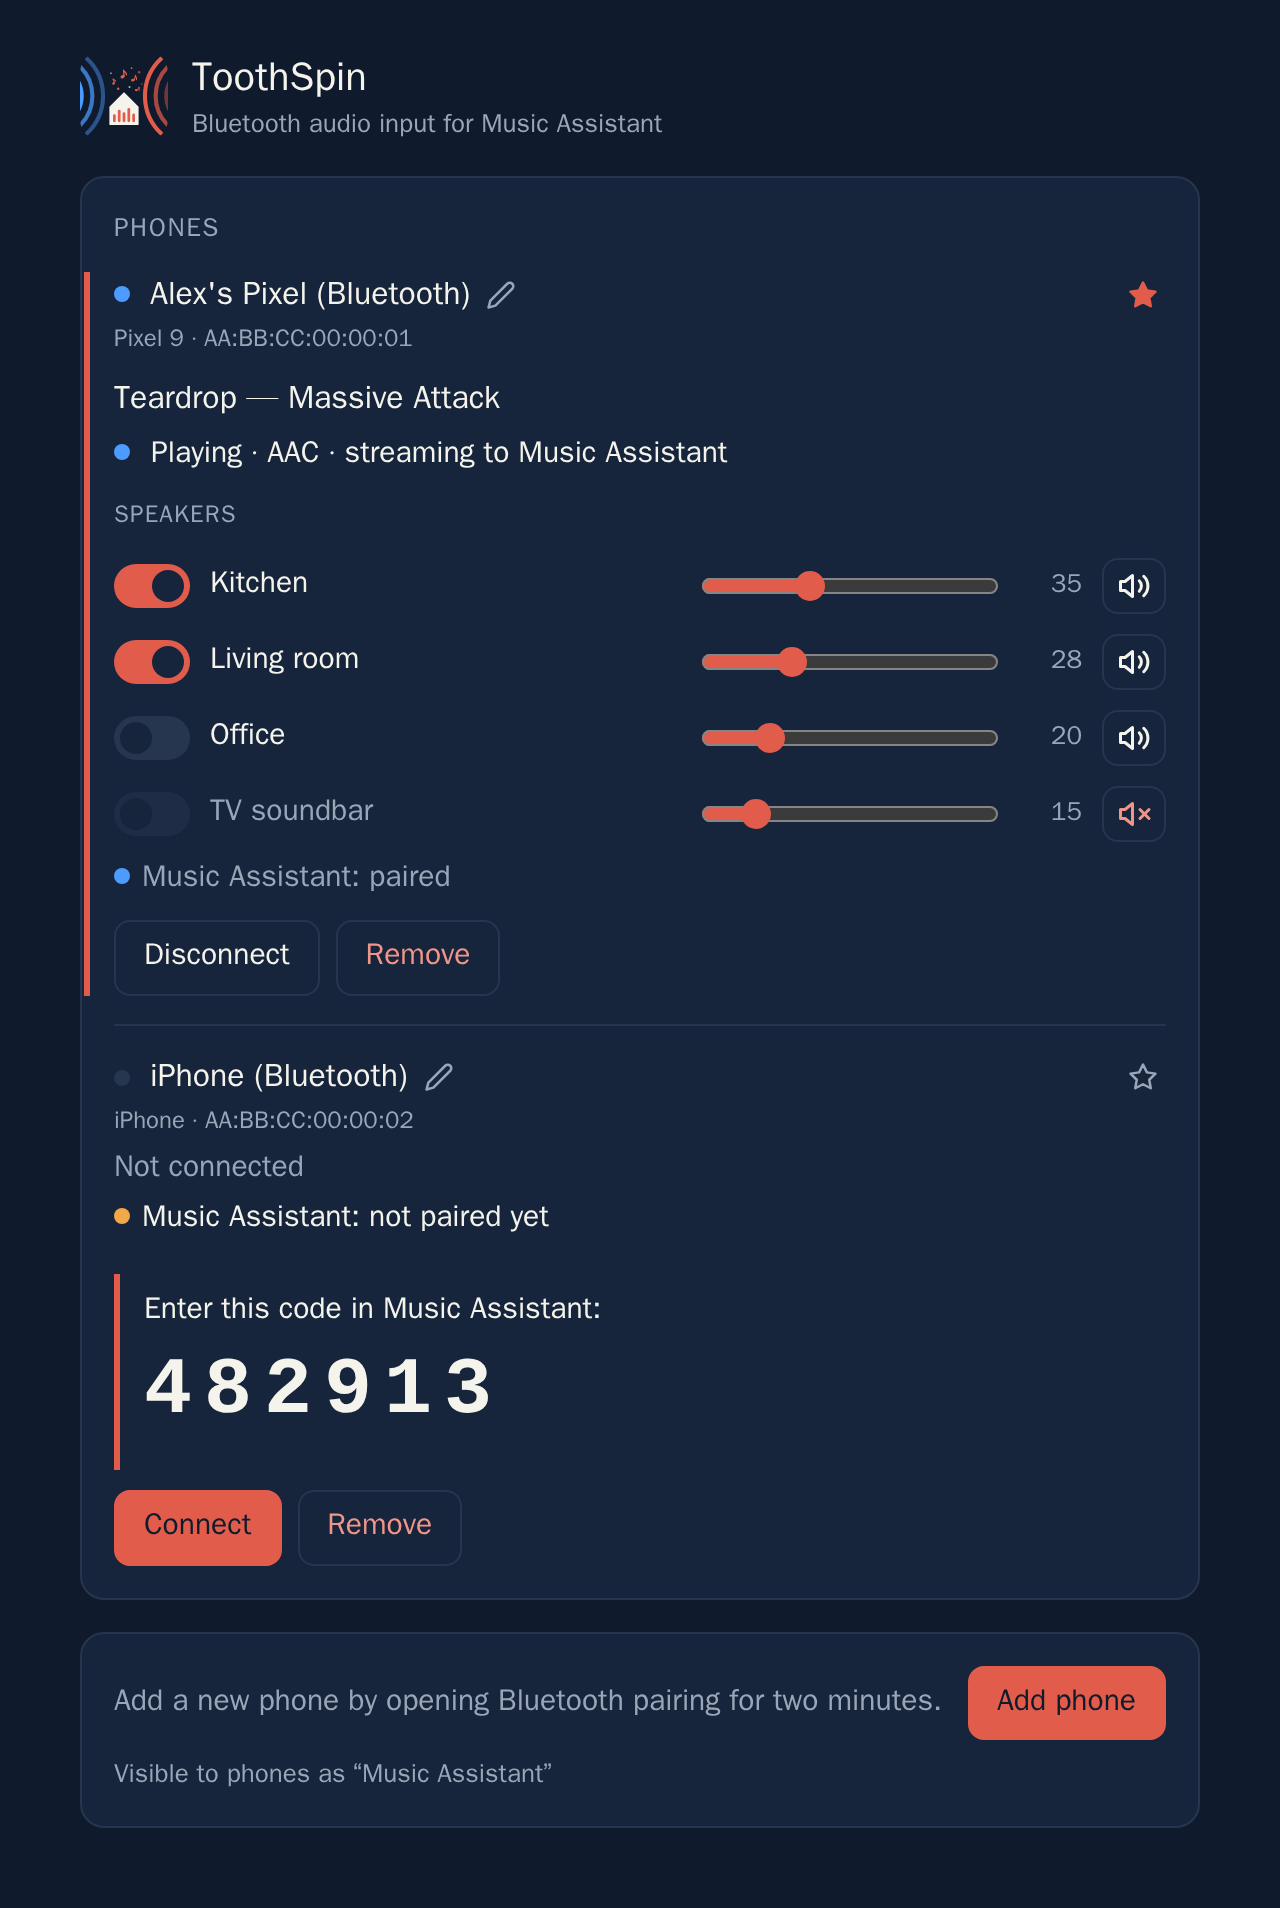
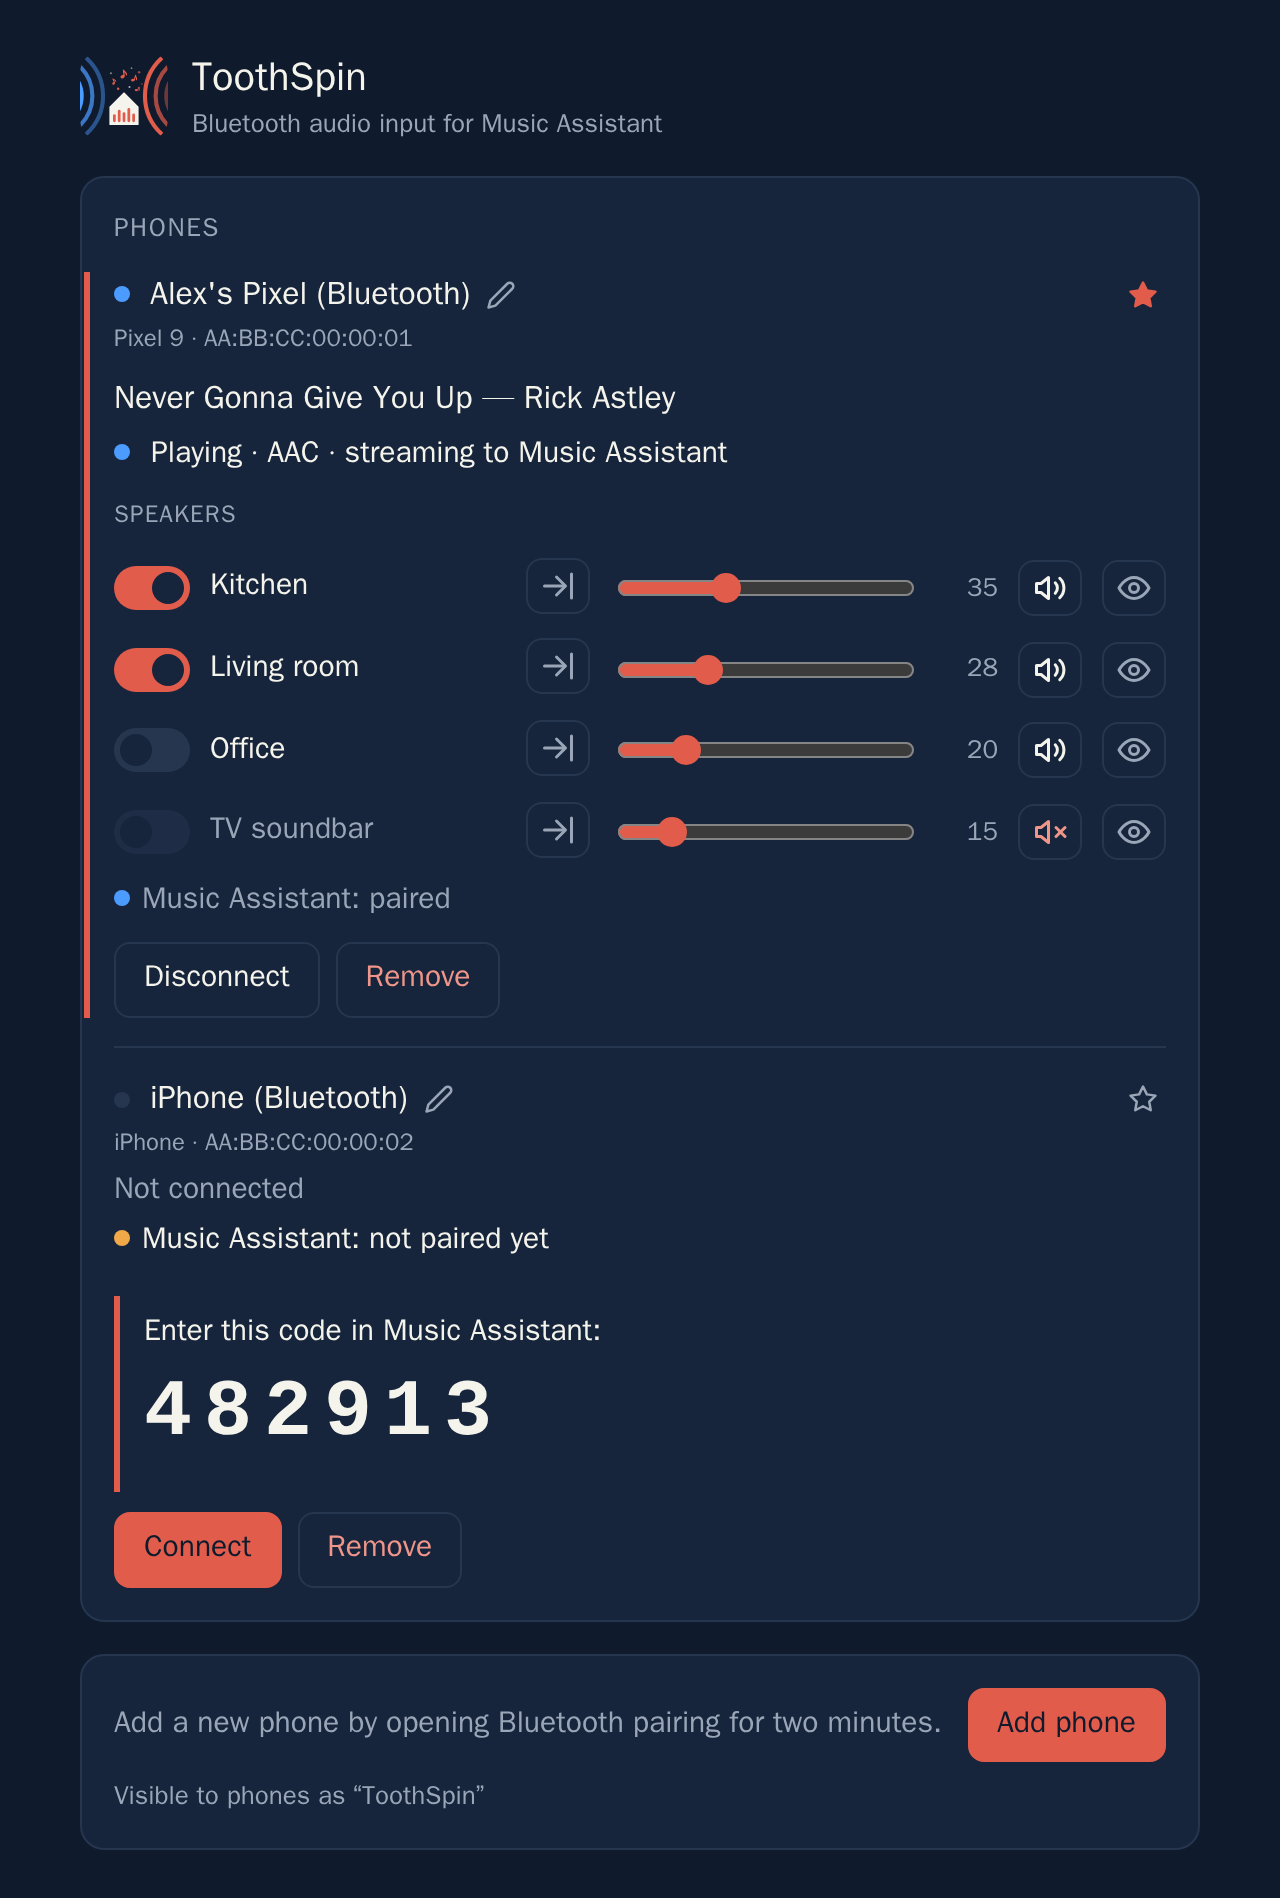
docs: screenshots of the setup card and a demo GIF
The screenshot script now runs a fake receiver that applies the web UI's
requests, so it can record the UI in use. Never gonna give you up.

diff --git a/docs/_screenshots/shot.py b/docs/_screenshots/shot.py
@@ -1,15 +1,23 @@
-"""Screenshots of the web UI for the Pages site, rendered with demo state.
+"""Screenshots and a demo GIF of the web UI, rendered with demo state.
 
-Serves src/toothspin/index.html and its static files with demo.json as
-/api/state, so no real devices or names end up on the site. From the repo
+Serves src/toothspin/index.html with a fake receiver behind /api: it starts
+from demo.json and applies the web UI's requests (speakers on/off, moves,
+volume, mute), so no real devices or names end up in the docs. From the repo
 root:
 
-    podman run --rm -v .:/repo:Z mcr.microsoft.com/playwright/python:v1.52.0-noble \
-        sh -c "pip install -q playwright==1.52.0 && python /repo/docs/_screenshots/shot.py"
+    podman run --rm -v .:/repo:Z mcr.microsoft.com/playwright/python:v1.52.0-noble \\
+        sh -c "apt-get -qq update && apt-get -qq install -y ffmpeg >/dev/null \\
+               && pip install -q playwright==1.52.0 && python /repo/docs/_screenshots/shot.py"
 """
 
+import copy
+import json
 import mimetypes
 import pathlib
+import shutil
+import subprocess
+import tempfile
+from urllib.parse import unquote
 
 from playwright.sync_api import sync_playwright
 
@@ -17,30 +25,185 @@ here = pathlib.Path(__file__).parent
 repo = here.parents[1]
 site = repo / "src" / "toothspin"
 out = repo / "docs" / "assets" / "screenshots"
-demo = (here / "demo.json").read_text()
+demo = json.loads((here / "demo.json").read_text())
+PHONE = "AA:BB:CC:00:00:01"
+
+TOKEN = {
+    "kind": "todo", "title": "Add a Music Assistant token",
+    "text": "To pick speakers here, pair phones with Music Assistant by themselves, "
+    "and control the speakers with the phone's volume buttons.",
+    "steps": [
+        "In Music Assistant, click your profile (bottom left) → **Tokens** → "
+        "**Create token**, and copy it.",
+        "Paste it as **Music Assistant token** in [ToothSpin's configuration](ha:app-config), "
+        "save and restart ToothSpin.",
+    ],
+}
+OFFERED = {
+    "kind": "todo", "title": "Let Home Assistant ignore ToothSpin's adapter",
+    "text": "Home Assistant found ToothSpin's adapter (00:1A:7D:DA:71:13) and offers to add "
+    "it to its Bluetooth integration. ToothSpin works best when Home Assistant leaves it alone.",
+    "steps": [
+        "Press **Ignore in Home Assistant**, or in [Settings → Devices & services]"
+        "(ha:integrations) choose **Ignore** on the discovered *Bluetooth* entry for "
+        "00:1A:7D:DA:71:13.",
+    ],
+    "action": "ignore-adapter",
+}
+BLOCKED = {
+    "title": "No Bluetooth adapter found",
+    "text": "ToothSpin needs a Bluetooth adapter, but this system has none, or "
+    "Bluetooth isn't running on it.",
+    "steps": [
+        "Plug a USB Bluetooth dongle into this machine (for a virtual machine: pass "
+        "the USB device through to it).",
+        "If it's plugged in, restart the machine so it's detected.",
+    ],
+}
 
 
-def handle(route):
-    path = route.request.url.split("toothspin.test", 1)[1].split("?")[0]
-    if path == "/api/state":
-        return route.fulfill(body=demo, content_type="application/json")
-    if path == "/":
-        return route.fulfill(path=site / "index.html", content_type="text/html")
-    if path.startswith("/static/"):
-        f = site / path.lstrip("/")
-        if f.is_file():
+class Receiver:
+    """Just enough of ToothSpin's API for the web UI to work."""
+
+    def __init__(self, setup=None):
+        self.state = copy.deepcopy(demo)
+        self.state["setup"] = setup or {"problem": None, "todo": [], "app": True, "app_slug": "demo_toothspin"}
+
+    def speakers(self):
+        return {s["player_id"]: s for s in self.state["speakers"]["list"]}
+
+    def uri(self, address):
+        return next(d["source_uri"] for d in self.state["devices"] if d["address"] == address)
+
+    def play(self, uri, player_id, on):
+        spk = self.speakers()
+        playing = [s for s in spk.values() if s["playing_uri"] == uri]
+        leader = next((s for s in playing if not s["synced_to"]), None)
+        s = spk[player_id]
+        if on:
+            s["playing_uri"], s["synced_to"] = uri, leader["player_id"] if leader else None
+        else:
+            s["playing_uri"] = s["synced_to"] = None
+            if leader is s:  # hand the group to the next one
+                rest = [x for x in playing if x is not s]
+                for i, x in enumerate(rest):
+                    x["synced_to"] = None if i == 0 else rest[0]["player_id"]
+
+    def handle(self, route):
+        req = route.request
+        path = req.url.split("toothspin.test", 1)[1].split("?")[0]
+        body = json.loads(req.post_data) if req.method == "POST" and req.post_data else {}
+        parts = [unquote(part) for part in path.strip("/").split("/")]
+        if path == "/api/state":
+            return route.fulfill(body=json.dumps(self.state), content_type="application/json")
+        if parts[:2] == ["api", "speakers"] and parts[2:] == ["volume"]:
+            s = self.speakers()[body["player_id"]]
+            if "muted" in body:
+                s["muted"] = body["muted"]
+            else:
+                s["volume"] = body["volume"]
+        elif parts[:2] == ["api", "speakers"] and parts[3] == "toggle":
+            self.play(self.uri(parts[2]), body["player_id"], body["on"])
+        elif parts[:2] == ["api", "speakers"] and parts[3] == "move":
+            uri = self.uri(parts[2])
+            for s in self.speakers().values():
+                if s["playing_uri"] == uri:
+                    s["playing_uri"] = s["synced_to"] = None
+            self.play(uri, body["player_id"], True)
+        elif path == "/":
+            return route.fulfill(path=site / "index.html", content_type="text/html")
+        elif path.startswith("/static/") and (site / path.lstrip("/")).is_file():
+            f = site / path.lstrip("/")
             return route.fulfill(path=f, content_type=mimetypes.guess_type(f.name)[0] or "application/octet-stream")
-    route.fulfill(status=404, body="")
+        elif not path.startswith("/api/"):
+            return route.fulfill(status=404, body="")
+        route.fulfill(body='{"ok": true}', content_type="application/json")
+
+
+def open_page(browser, receiver, scheme="light", width=640, height=800, setup_open=False, **kwargs):
+    page = browser.new_page(viewport={"width": width, "height": height}, color_scheme=scheme, **kwargs)
+    page.add_init_script(f'localStorage.setItem("myPhone", "{PHONE}");'
+                         f'localStorage.setItem("setupOpen", "{1 if setup_open else 0}")')
+    page.on("pageerror", lambda e: print("pageerror", e))
+    page.route("**/*", receiver.handle)
+    page.goto("http://toothspin.test/")
+    page.wait_for_timeout(2000)
+    return page
+
+
+def screenshots(browser):
+    for scheme in ("dark", "light"):
+        page = open_page(browser, Receiver(), scheme, device_scale_factor=2)
+        page.screenshot(path=out / f"web-ui-{scheme}.png", full_page=True)
+    for name, todo, opened in (("setup", [OFFERED, TOKEN], True), ("setup-collapsed", [OFFERED, TOKEN], False)):
+        setup = {"problem": None, "todo": todo, "app": True, "app_slug": "demo_toothspin"}
+        page = open_page(browser, Receiver(setup), "light", width=480, setup_open=opened, device_scale_factor=2)
+        page.locator("#setup").screenshot(path=out / f"{name}.png")
+    setup = {"problem": BLOCKED, "todo": [], "app": True, "app_slug": "demo_toothspin"}
+    page = open_page(browser, Receiver(setup), "light", width=480, device_scale_factor=2)
+    page.locator("main").screenshot(path=out / "setup-blocked.png")
+
+
+def demo_gif(browser):
+    """Add a speaker to the group, set its volume, then play only there.
+
+    Built from sharp 2x screenshots rather than a video recording, which
+    Playwright only does at 1x.
+    """
+    width = 480
+    page = open_page(browser, Receiver(), "light", width=width, height=900, device_scale_factor=2)
+    frames: list[tuple[bytes, float]] = []
+    # Header and the first phone's card, down to its buttons.
+    bottom = page.locator(f'button[data-action="disconnect"]').bounding_box()
+    clip = {"x": 0, "y": 0, "width": width, "height": bottom["y"] + bottom["height"] + 18}
+
+    def frame(seconds):
+        frames.append((page.screenshot(clip=clip), seconds))
+
+    card = f'[data-addr="{PHONE}"]'
+    frame(1.6)
+    page.click(f'button[data-speaker="office"]{card}')
+    page.wait_for_timeout(150)
+    frame(1.4)
+    slider = page.locator('input[data-vol="office"]')
+    slider.wait_for(state="visible")
+    page.wait_for_timeout(300)  # the next poll re-renders the card
+    box = slider.bounding_box()
+    y = box["y"] + box["height"] / 2
+    page.mouse.move(box["x"] + box["width"] * 0.2, y)
+    page.mouse.down()
+    for i in range(1, 13):
+        page.mouse.move(box["x"] + box["width"] * (0.2 + i * 0.04), y)
+        frame(0.06)
+    page.mouse.up()
+    page.wait_for_timeout(150)
+    frame(1.4)
+    page.click(f'button[data-move="office"]{card}')
+    page.wait_for_timeout(300)
+    frame(2.6)
+
+    with tempfile.TemporaryDirectory() as tmp:
+        tmp = pathlib.Path(tmp)
+        lines = []
+        for n, (png, seconds) in enumerate(frames):
+            (tmp / f"{n:03}.png").write_bytes(png)
+            lines += [f"file '{n:03}.png'", f"duration {seconds}"]
+        lines.append(f"file '{len(frames) - 1:03}.png'")  # concat needs the last one twice
+        (tmp / "frames.txt").write_text("\n".join(lines) + "\n")
+        scale = f"scale={width}:-1:flags=lanczos"
+        concat = ["-f", "concat", "-safe", "0", "-i", tmp / "frames.txt"]
+        subprocess.run(["ffmpeg", "-loglevel", "error", "-y", *concat, "-vf",
+                        f"{scale},palettegen=stats_mode=full", tmp / "palette.png"], check=True)
+        subprocess.run(["ffmpeg", "-loglevel", "error", "-y", *concat, "-i", tmp / "palette.png",
+                        "-lavfi", f"{scale} [x]; [x][1:v] paletteuse=dither=none", out / "demo.gif"],
+                       check=True)
 
 
 with sync_playwright() as p:
     browser = p.chromium.launch()
-    for scheme in ("dark", "light"):
-        page = browser.new_page(viewport={"width": 640, "height": 800}, color_scheme=scheme, device_scale_factor=2)
-        page.add_init_script('localStorage.setItem("myPhone", "AA:BB:CC:00:00:01")')
-        page.on("pageerror", lambda e: print("pageerror", e))
-        page.route("**/*", handle)
-        page.goto("http://toothspin.test/")
-        page.wait_for_timeout(2500)
-        page.screenshot(path=out / f"web-ui-{scheme}.png", full_page=True)
+    screenshots(browser)
+    if shutil.which("ffmpeg"):
+        demo_gif(browser)
+    else:
+        print("ffmpeg missing: skipping demo.gif")
     browser.close()

diff --git a/docs/faq.md b/docs/faq.md
@@ -95,10 +95,24 @@ No. ToothSpin only receives music (A2DP), no calls.
 
 ### ToothSpin says something is wrong {#setup-problems}
 
-ToothSpin checks its setup on every start and shows what to do in its web
-UI, step by step. Problems that stop it from starting also show up as a Home
-Assistant notification. Fix them and ToothSpin starts by itself within a few
-seconds.
+ToothSpin checks its setup on every start. What's left to do shows up as
+**Finish setup** on top of its web UI; open it for step-by-step instructions
+with links into Home Assistant. It goes away once everything is done, and
+ToothSpin works meanwhile.
+
+<figure class="shot">
+  <img src="{{ '/assets/screenshots/setup-collapsed.png' | relative_url }}" width="448"
+    alt="Finish setup, collapsed: two things to do">
+</figure>
+
+Problems that stop it from starting replace the page instead, and also show
+up as a Home Assistant notification. Fix them and ToothSpin starts by itself
+within a few seconds.
+
+<figure class="shot">
+  <img src="{{ '/assets/screenshots/setup-blocked.png' | relative_url }}" width="448"
+    alt="No Bluetooth adapter found, with steps to fix it">
+</figure>
 
 ### Something else {#other}
 

diff --git a/docs/install.md b/docs/install.md
@@ -35,10 +35,18 @@ devices.
    phone's Bluetooth settings. Play something and switch on a speaker on the
    phone's card.
 
-ToothSpin checks its setup on every start. If something is missing, the app
-shows what to do, step by step. If it can't start at all (e.g. no adapter),
+ToothSpin checks its setup on every start. Anything left to do shows up as
+**Finish setup** on top of the app, with step-by-step instructions and links
+into Home Assistant; it goes away once it's done, and ToothSpin works
+meanwhile. If it can't start at all (e.g. no adapter), it says why instead,
 you also get a Home Assistant notification, and ToothSpin starts by itself
 once it's fixed.
+
+<figure class="shot">
+  <img src="{{ '/assets/screenshots/setup.png' | relative_url }}" width="448"
+    alt="Finish setup card: let Home Assistant ignore ToothSpin's adapter, add a Music Assistant token">
+  <figcaption>What's left to finish setup, expanded.</figcaption>
+</figure>
 
 All options are described on the App's **Documentation** tab. Questions:
 [FAQ]({{ '/faq.html' | relative_url }}).

diff --git a/docs/index.md b/docs/index.md
@@ -26,9 +26,15 @@ with Music Assistant 2.10.6.
 ## Web UI
 
 <figure class="shot">
+  <img src="{{ '/assets/screenshots/demo.gif' | relative_url }}" width="480" height="663"
+    alt="A speaker joins the phone's group, its volume goes up, then the phone plays only there">
+  <figcaption>Add a speaker, turn it up, then play only there. Demo data.</figcaption>
+</figure>
+
+<figure class="shot">
   <picture>
     <source srcset="{{ '/assets/screenshots/web-ui-dark.png' | relative_url }}" media="(prefers-color-scheme: dark)">
-    <img src="{{ '/assets/screenshots/web-ui-light.png' | relative_url }}" width="640" height="954"
+    <img src="{{ '/assets/screenshots/web-ui-light.png' | relative_url }}" width="640" height="949"
       alt="ToothSpin web UI: a phone playing a track on two grouped speakers, and a second phone showing its Music Assistant pairing code">
   </picture>
   <figcaption>One phone playing on a speaker group, one waiting for Music Assistant pairing. Demo data.</figcaption>

diff --git a/toothspin/DOCS.md b/toothspin/DOCS.md
@@ -43,11 +43,12 @@ On every start, and while running, ToothSpin checks:
 - **Does Home Assistant use it too?** ToothSpin asks Home Assistant's
   Bluetooth integration and recommends a dongle of its own if it shares
   one. If Home Assistant discovered ToothSpin's dongle and offers to add it,
-  ToothSpin recommends ignoring it.
+  ToothSpin recommends ignoring it, and does it for you if you confirm.
 - **Music Assistant token and connection:** missing token, a token Music
   Assistant rejects, or Music Assistant not found.
 
-The app shows what to do, step by step, and the log says it too. If
+What's left shows up as **Finish setup** on top of the app, with steps and
+links into Home Assistant; it goes away once done. The log says it too. If
 ToothSpin can't start (no adapter), it also raises a Home Assistant
 notification, checks again every few seconds and starts by itself once the
 problem is fixed; the notification then disappears.

diff --git a/README.md b/README.md
@@ -30,6 +30,11 @@ any Bluetooth speaker (or press **Connect** in ToothSpin), play something
 and switch on the speakers you want. The phone's volume buttons control
 those speakers.
 
+<p align="center">
+  <img src="docs/assets/screenshots/demo.gif" width="480"
+    alt="ToothSpin's web UI: a speaker joins the phone's group, its volume goes up, then the phone plays only there">
+</p>
+
 > [!NOTE]
 > ToothSpin is in an early state. It was put together over a couple of
 > evenings with [Claude](https://claude.ai), with a human firmly at the

diff --git a/toothspin/README.md b/toothspin/README.md
@@ -42,5 +42,7 @@ Assistant notification.
 Step by step: [installation guide](https://eknoes.github.io/toothspin/install.html#home-assistant) ·
 [FAQ](https://eknoes.github.io/toothspin/faq.html)
 
+![ToothSpin's web UI: a speaker joins the phone's group, its volume goes up, then the phone plays only there](https://eknoes.github.io/toothspin/assets/screenshots/demo.gif)
+
 [aarch64-shield]: https://img.shields.io/badge/aarch64-yes-green.svg
 [amd64-shield]: https://img.shields.io/badge/amd64-yes-green.svg
